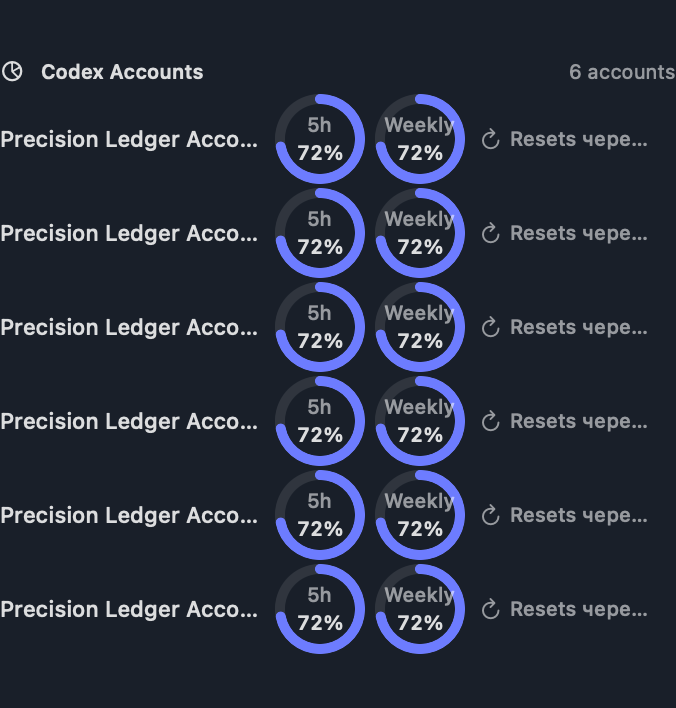
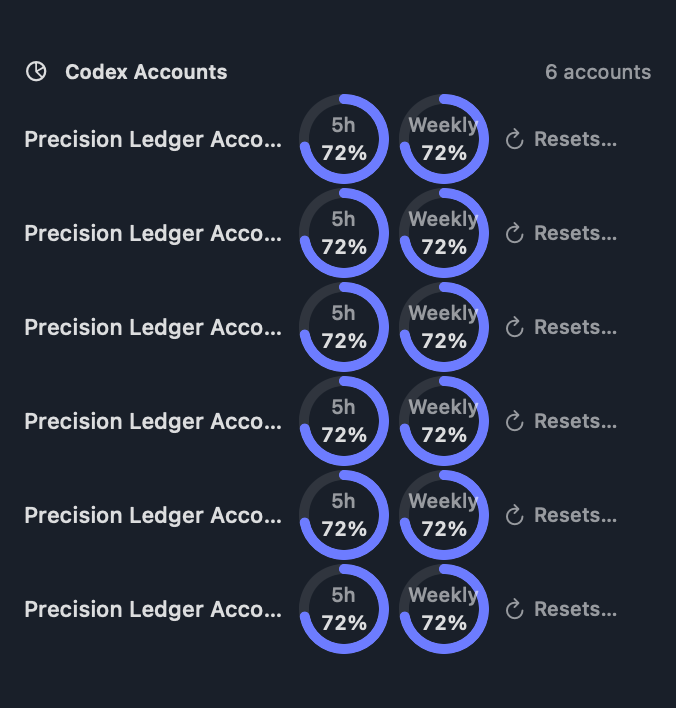
fix: protect widget ledger content from clipping

diff --git a/src/CodexAuthWidget/Views/LimitRing.swift b/src/CodexAuthWidget/Views/LimitRing.swift
@@ -96,6 +96,11 @@ enum WidgetStrings {
     }
 }
 
+enum WidgetLayoutMetrics {
+    /// Keeps ledger labels and gauge strokes clear of the widget canvas edge.
+    static let ledgerHorizontalInset: CGFloat = 12
+}
+
 struct LimitRing: View {
     let title: LocalizedStringKey
     let remaining: Double?

diff --git a/src/CodexAuthWidgetTests/CodexAuthWidgetTests.swift b/src/CodexAuthWidgetTests/CodexAuthWidgetTests.swift
@@ -59,6 +59,11 @@ final class CodexAuthWidgetTests: XCTestCase {
         XCTAssertEqual(LimitSeverity(remaining: 9), .critical)
     }
 
+    func testLedgerContentUsesAProtectedHorizontalInset() {
+        XCTAssertEqual(WidgetLayoutMetrics.ledgerHorizontalInset, 12)
+        XCTAssertGreaterThan(WidgetLayoutMetrics.ledgerHorizontalInset, 0)
+    }
+
     func testAccessibilityValueIncludesNumberResetAndStaleness() {
         let value = LimitAccessibility.accountValue(fiveHourRemaining: 72, weeklyRemaining: nil, reset: Date(timeIntervalSince1970: 7_200), now: Date(timeIntervalSince1970: 0), freshness: .aging, locale: Locale(identifier: "en"))
         XCTAssertTrue(value.contains("72"))

diff --git a/src/CodexAuthWidget/Views/LargeWidgetView.swift b/src/CodexAuthWidget/Views/LargeWidgetView.swift
@@ -23,6 +23,7 @@ struct LargeWidgetView: View {
                 }
             }
         }
+        .padding(.horizontal, WidgetLayoutMetrics.ledgerHorizontalInset)
     }
 }
 

diff --git a/src/CodexAuthWidget/Views/MediumWidgetView.swift b/src/CodexAuthWidget/Views/MediumWidgetView.swift
@@ -15,6 +15,7 @@ struct MediumWidgetView: View {
                 }
             }
         }
+        .padding(.horizontal, WidgetLayoutMetrics.ledgerHorizontalInset)
     }
 }
 